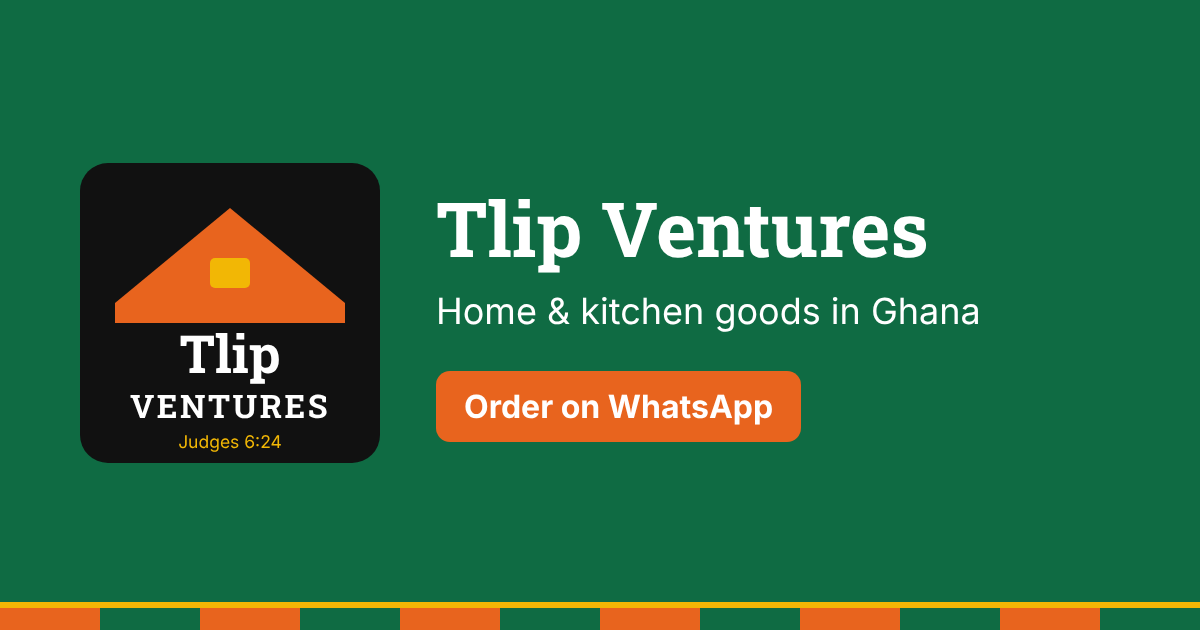
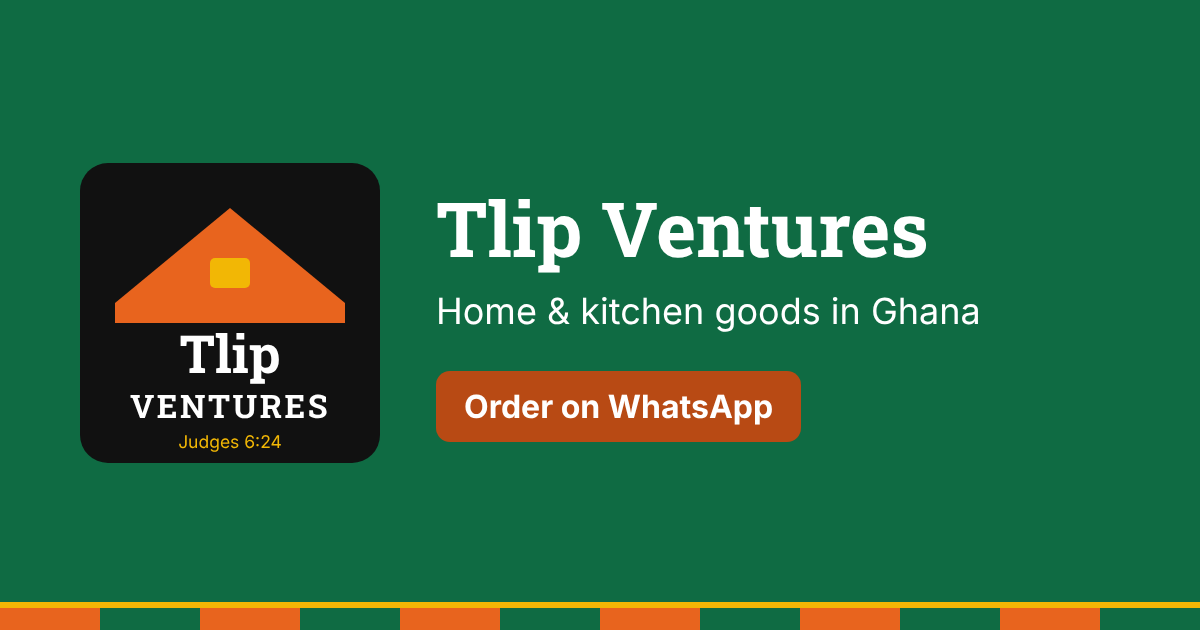
Phase 5: darker orange behind white text for WCAG AA contrast
White on brand-orange (#E8641E) is 3.3:1, below AA for text under ~19px bold.
Buttons and Sale badges now use brand-orange-dark (#B84A14, 5.2:1) with a new
brand-orange-deep hover; bright orange stays for the decorative block band.
Brand rules in CLAUDE.md updated to match. Accessibility scan: 0 issues.

Claude-Session: https://claude.ai/code/session_01EuYJ9qgSQ2BN63vwcMgpC2

Changed region(s): [[0.3392, 0.573, 0.6783, 0.7238]]

diff --git a/components/shop/cart-view.tsx b/components/shop/cart-view.tsx
@@ -48,7 +48,7 @@ export function CartView() {
         <p className="font-semibold">Your cart is empty.</p>
         <Link
           href="/products"
-          className="inline-flex min-h-11 items-center rounded-lg bg-brand-orange px-5 text-base font-bold text-white no-underline hover:bg-brand-orange-dark"
+          className="inline-flex min-h-11 items-center rounded-lg bg-brand-orange-dark px-5 text-base font-bold text-white no-underline hover:bg-brand-orange-deep"
         >
           Browse products
         </Link>
@@ -295,7 +295,7 @@ function CheckoutForm({ blocked }: { blocked: boolean }) {
         <button
           type="submit"
           disabled={pending || blocked}
-          className="inline-flex min-h-12 w-full items-center justify-center rounded-lg bg-brand-orange px-6 text-lg font-bold text-white hover:bg-brand-orange-dark disabled:cursor-not-allowed disabled:bg-neutral-300 disabled:text-neutral-700"
+          className="inline-flex min-h-12 w-full items-center justify-center rounded-lg bg-brand-orange-dark px-6 text-lg font-bold text-white hover:bg-brand-orange-deep disabled:cursor-not-allowed disabled:bg-neutral-300 disabled:text-neutral-700"
         >
           {pending ? "Saving your order…" : "Order on WhatsApp"}
         </button>

diff --git a/components/shop/order-sent-view.tsx b/components/shop/order-sent-view.tsx
@@ -59,7 +59,7 @@ export function OrderSentView() {
         href={order.whatsappUrl}
         target="_blank"
         rel="noopener noreferrer"
-        className="inline-flex min-h-12 w-full items-center justify-center gap-2 rounded-lg bg-brand-orange px-6 text-lg font-bold text-white no-underline hover:bg-brand-orange-dark sm:w-auto"
+        className="inline-flex min-h-12 w-full items-center justify-center gap-2 rounded-lg bg-brand-orange-dark px-6 text-lg font-bold text-white no-underline hover:bg-brand-orange-deep sm:w-auto"
       >
         <svg viewBox="0 0 24 24" className="h-6 w-6" fill="currentColor" aria-hidden="true">
           <path d="M12 2a10 10 0 0 0-8.6 15.1L2 22l5-1.3A10 10 0 1 0 12 2Zm0 18.2a8.2 8.2 0 0 1-4.2-1.2l-.3-.2-3 .8.8-2.9-.2-.3A8.2 8.2 0 1 1 12 20.2Zm4.5-6.1c-.2-.1-1.5-.7-1.7-.8-.2-.1-.4-.1-.6.1l-.8 1c-.1.2-.3.2-.5.1a6.7 6.7 0 0 1-3.3-2.9c-.2-.4.3-.4.8-1.3.1-.2 0-.3 0-.4l-.8-1.8c-.2-.5-.4-.4-.6-.4h-.5a1 1 0 0 0-.7.3 3 3 0 0 0-.9 2.2 5.2 5.2 0 0 0 1.1 2.7 11.8 11.8 0 0 0 4.5 4c1.7.7 2.3.8 3.2.6.5-.1 1.5-.6 1.7-1.2.2-.6.2-1.1.2-1.2-.1-.1-.3-.2-.6-.3Z" />

diff --git a/components/shop/add-to-cart.tsx b/components/shop/add-to-cart.tsx
@@ -76,7 +76,7 @@ export function AddToCart({ product, optionHeading, variants }: Props) {
         type="button"
         onClick={handleAdd}
         disabled={!canAdd}
-        className="inline-flex min-h-12 w-full items-center justify-center rounded-lg bg-brand-orange px-6 text-lg font-bold text-white hover:bg-brand-orange-dark disabled:cursor-not-allowed disabled:bg-neutral-300 disabled:text-neutral-700 sm:w-auto"
+        className="inline-flex min-h-12 w-full items-center justify-center rounded-lg bg-brand-orange-dark px-6 text-lg font-bold text-white hover:bg-brand-orange-deep disabled:cursor-not-allowed disabled:bg-neutral-300 disabled:text-neutral-700 sm:w-auto"
       >
         {canAdd
           ? `Add to cart${showPrices && selected ? ` · ${formatPesewas(selected.price)}` : ""}`

diff --git a/app/globals.css b/app/globals.css
@@ -2,8 +2,9 @@
 
 @theme {
   /* Brand colours (see CLAUDE.md "Brand and design") */
-  --color-brand-orange: #e8641e; /* primary buttons, "Order on WhatsApp", sale badges */
-  --color-brand-orange-dark: #b84a14; /* orange text and links on white */
+  --color-brand-orange: #e8641e; /* decoration only (block band); never behind text */
+  --color-brand-orange-dark: #b84a14; /* orange text and links on white; background behind white text */
+  --color-brand-orange-deep: #963b0f; /* hover state of brand-orange-dark buttons */
   --color-brand-green: #0f6b43; /* header, footer, menus, headings */
   --color-brand-gold: #f2b705; /* small accents only */
   --color-ink: #111111; /* body text, logo badge background */

diff --git a/app/admin/(panel)/orders/[id]/page.tsx b/app/admin/(panel)/orders/[id]/page.tsx
@@ -49,7 +49,7 @@ export default async function OrderPage({ params }: PageProps<"/admin/orders/[id
                 href={whatsappUrl(order.phone, `Hi ${order.customer_name}, about your order ${order.order_code}: `)}
                 target="_blank"
                 rel="noopener noreferrer"
-                className="inline-flex min-h-11 items-center rounded-lg bg-brand-orange px-4 text-base font-bold text-white no-underline hover:bg-brand-orange-dark"
+                className="inline-flex min-h-11 items-center rounded-lg bg-brand-orange-dark px-4 text-base font-bold text-white no-underline hover:bg-brand-orange-deep"
               >
                 WhatsApp customer
               </a>

diff --git a/components/shop/product-card.tsx b/components/shop/product-card.tsx
@@ -17,7 +17,7 @@ export function ProductCard({ product }: { product: ProductCardData }) {
         <ProductImage image={product.image} sizes={CARD_IMAGE_SIZES} />
         <div className="absolute left-2 top-2 flex flex-col items-start gap-1">
           {pricing.compareAt !== null && pricing.inStock && (
-            <span className="rounded bg-brand-orange px-2 py-0.5 text-base font-bold text-white">Sale</span>
+            <span className="rounded bg-brand-orange-dark px-2 py-0.5 text-base font-bold text-white">Sale</span>
           )}
           {!pricing.inStock && (
             <span className="rounded bg-ink px-2 py-0.5 text-sm font-semibold text-white">Out of stock</span>

diff --git a/app/(shop)/products/[slug]/page.tsx b/app/(shop)/products/[slug]/page.tsx
@@ -103,7 +103,7 @@ export default async function ProductPage({ params }: PageProps<"/products/[slug
               <div className="flex flex-wrap items-center gap-3">
                 <Price pricing={pricing} size="lg" />
                 {pricing.compareAt !== null && pricing.inStock && (
-                  <span className="rounded bg-brand-orange px-2 py-0.5 text-base font-bold text-white">Sale</span>
+                  <span className="rounded bg-brand-orange-dark px-2 py-0.5 text-base font-bold text-white">Sale</span>
                 )}
               </div>
               <p className={`font-semibold ${pricing.inStock ? "text-brand-green" : "text-neutral-700"}`}>

diff --git a/components/shop/search-form.tsx b/components/shop/search-form.tsx
@@ -26,7 +26,7 @@ export function SearchForm({ defaultValue = "", id }: Props) {
       />
       <button
         type="submit"
-        className="inline-flex min-h-11 min-w-11 items-center justify-center rounded-r-lg bg-brand-orange px-3 text-base font-bold text-white hover:bg-brand-orange-dark"
+        className="inline-flex min-h-11 min-w-11 items-center justify-center rounded-r-lg bg-brand-orange-dark px-3 text-base font-bold text-white hover:bg-brand-orange-deep"
       >
         <svg viewBox="0 0 24 24" className="h-5 w-5" fill="none" stroke="currentColor" strokeWidth="2.5" aria-hidden="true">
           <circle cx="11" cy="11" r="7" />

diff --git a/components/admin/product-editor.tsx b/components/admin/product-editor.tsx
@@ -331,7 +331,7 @@ export function ProductEditor({ initial, categories, uploadsEnabled }: Props) {
         <button
           type="submit"
           disabled={pending}
-          className="inline-flex min-h-11 items-center rounded-lg bg-brand-orange px-6 text-base font-bold text-white hover:bg-brand-orange-dark disabled:opacity-60"
+          className="inline-flex min-h-11 items-center rounded-lg bg-brand-orange-dark px-6 text-base font-bold text-white hover:bg-brand-orange-deep disabled:opacity-60"
         >
           {pending ? "Saving…" : form.id ? "Save changes" : "Create product"}
         </button>

diff --git a/app/admin/(panel)/products/page.tsx b/app/admin/(panel)/products/page.tsx
@@ -45,7 +45,7 @@ export default async function AdminProductsPage({ searchParams }: PageProps<"/ad
         <h1 className="text-3xl font-bold text-brand-green">Products</h1>
         <Link
           href="/admin/products/new"
-          className="inline-flex min-h-11 items-center rounded-lg bg-brand-orange px-5 text-base font-bold text-white no-underline hover:bg-brand-orange-dark"
+          className="inline-flex min-h-11 items-center rounded-lg bg-brand-orange-dark px-5 text-base font-bold text-white no-underline hover:bg-brand-orange-deep"
         >
           Add product
         </Link>

diff --git a/components/admin/settings-form.tsx b/components/admin/settings-form.tsx
@@ -110,7 +110,7 @@ export function SettingsForm({ initial }: { initial: SettingsInput }) {
         <button
           type="submit"
           disabled={pending}
-          className="inline-flex min-h-11 items-center rounded-lg bg-brand-orange px-6 text-base font-bold text-white hover:bg-brand-orange-dark disabled:opacity-60"
+          className="inline-flex min-h-11 items-center rounded-lg bg-brand-orange-dark px-6 text-base font-bold text-white hover:bg-brand-orange-deep disabled:opacity-60"
         >
           {pending ? "Saving…" : "Save settings"}
         </button>

diff --git a/components/shop/not-found-message.tsx b/components/shop/not-found-message.tsx
@@ -8,7 +8,7 @@ export function NotFoundMessage() {
       <div className="flex flex-wrap justify-center gap-3">
         <Link
           href="/products"
-          className="inline-flex min-h-11 items-center rounded-lg bg-brand-orange px-5 text-base font-bold text-white no-underline hover:bg-brand-orange-dark"
+          className="inline-flex min-h-11 items-center rounded-lg bg-brand-orange-dark px-5 text-base font-bold text-white no-underline hover:bg-brand-orange-deep"
         >
           Browse products
         </Link>
